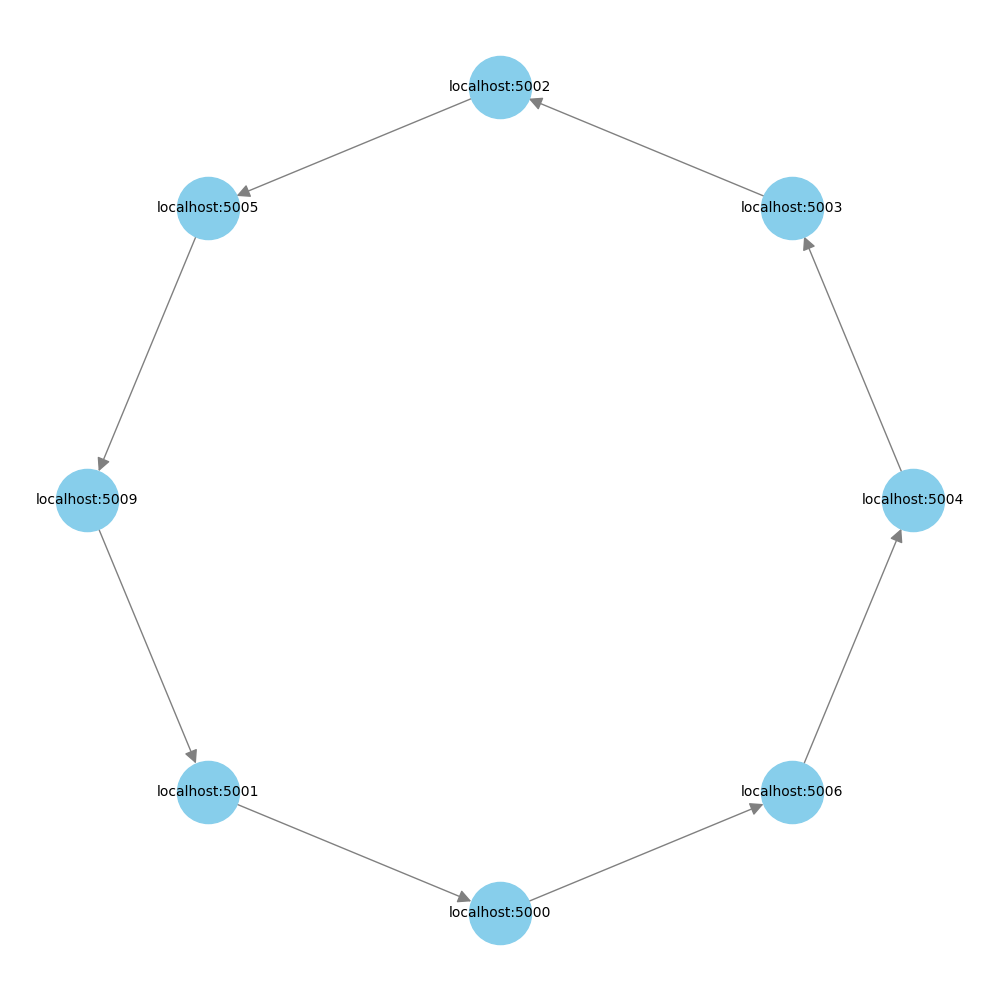
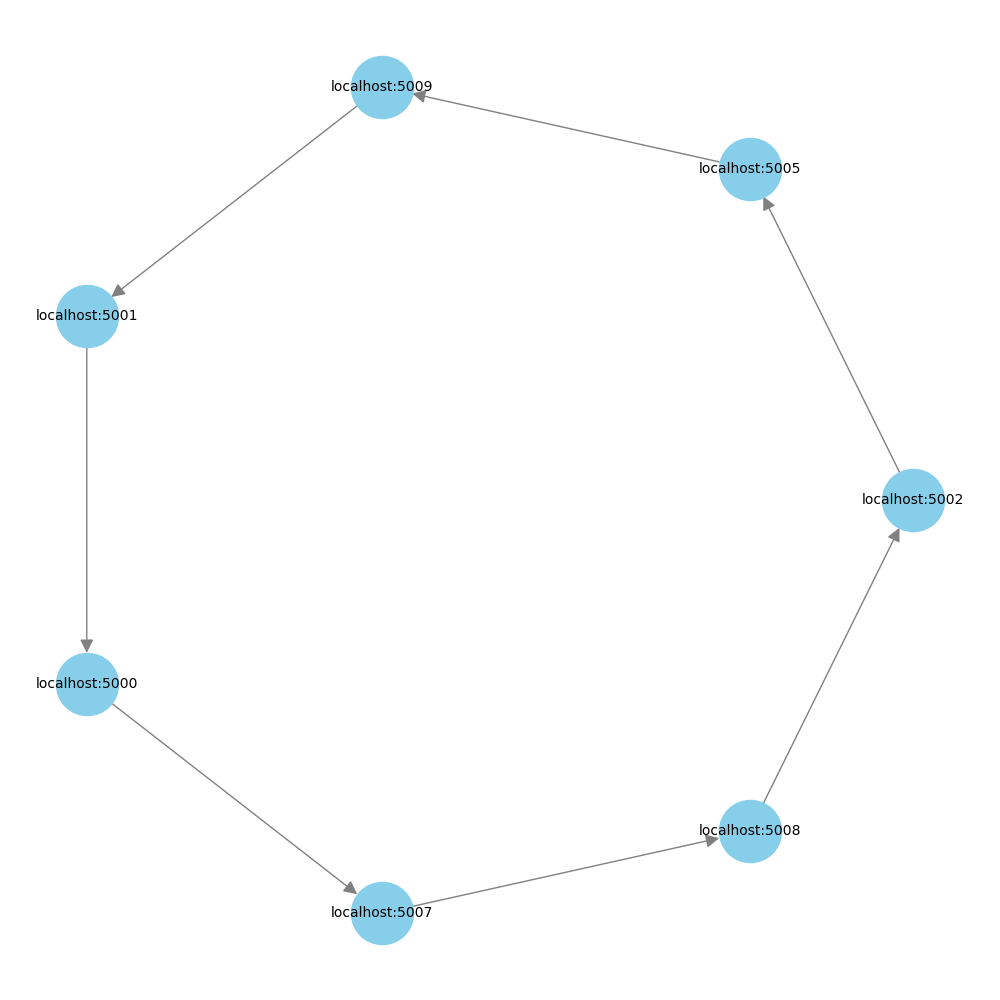
finishing the plot for the moment

diff --git a/playground/chord_join-leave/visual/templates/index.html b/playground/chord_join-leave/visual/templates/index.html
@@ -17,8 +17,6 @@
     </script>
 </head>
 <body>
-    <h1>Chord Ring Visualization</h1>
-    <p>The visualization will update every second to reflect the current state of the Chord ring.</p>
     <img id="chord-graph" src="/static/graph.png" alt="Chord Ring Visualization" style="width: 100%; max-width: 800px; height: auto;">
 </body>
 </html>

diff --git a/playground/chord_join-leave/visual/plot.py b/playground/chord_join-leave/visual/plot.py
@@ -1,6 +1,8 @@
 import matplotlib
 matplotlib.use('Agg')  # Use a non-GUI backend
 
+import threading
+import time
 import os
 import requests
 import json
@@ -19,86 +21,67 @@ def hash_node(node):
 
 def build_chord_graph():
     """
-    Build a graph representation of the Chord ring, ensuring nodes are sorted
-    to avoid crossing connections.
+    Traverse the Chord ring starting from a known node (e.g., localhost:5000),
+    dynamically discover all nodes via successor links, and sort them by hash.
     """
     G = nx.DiGraph()
-    node_data = []
+    visited = set()  # Keep track of visited nodes to avoid infinite loops
+    nodes = []       # Store nodes and their hashes for sorting
+    start_node = "localhost:5000"  # Starting node (node 0)
 
-    # Step 1: Retrieve the list of nodes and their information
-    for port in range(5000, 5010):
-        try:
-            response = requests.get(f"http://localhost:{port}/network")
+    try:
+        # Start traversal from the known node
+        current_node = start_node
+        while current_node not in visited:
+            # Fetch information from the current node
+            response = requests.get(f"http://{current_node}/network")
             data = response.json()
-            current_node = f"localhost:{port}"
+
             successor = data["successor"]
             predecessor = data["predecessor"]
 
-            # Store node info along with its hash
-            node_data.append({
-                "id": current_node,
-                "successor": successor,
-                "predecessor": predecessor,
-                "hash": hash_node(current_node)
-            })
-        except (requests.exceptions.ConnectionError, requests.exceptions.JSONDecodeError) as e:
-            print(f"Error with node on port {port}: {e}")
-            continue
+            # Add the current node and its connections to the graph
+            G.add_node(current_node)
+            G.add_node(successor)
+            G.add_node(predecessor)
 
-    # Step 2: Sort nodes based on their hash values
-    node_data.sort(key=lambda x: x["hash"])
+            G.add_edge(current_node, successor)  # Connect to successor
+            G.add_edge(predecessor, current_node)  # Connect from predecessor
 
-    # Step 3: Add nodes and edges to the graph
-    for node in node_data:
-        current_node = node["id"]
-        successor = node["successor"]
+            # Add the node and its hash to the list for sorting
+            nodes.append({"id": current_node, "hash": hash_node(current_node)})
 
-        # Add nodes to the graph
-        G.add_node(current_node)
-        G.add_node(successor)
+            # Mark the current node as visited and move to the successor
+            visited.add(current_node)
+            current_node = successor
 
-        # Add directed edges for successor connections
-        G.add_edge(current_node, successor)
+        # Sort nodes by their hash values
+        nodes.sort(key=lambda x: x["hash"])
+
+        # Rebuild the graph using the sorted nodes
+        sorted_G = nx.DiGraph()
+        for i in range(len(nodes)):
+            current_node = nodes[i]["id"]
+            next_node = nodes[(i + 1) % len(nodes)]["id"]  # Circular connection
+            sorted_G.add_node(current_node)
+            sorted_G.add_edge(current_node, next_node)
+
+        return sorted_G
+
+    except (requests.exceptions.ConnectionError, requests.exceptions.JSONDecodeError) as e:
+        print(f"Error while traversing the ring: {e}")
 
     return G
 
+def generate_chord_plot(graph, output_path="static/graph.png"):
+    """
+    Generate the Chord ring plot and save it as an image.
+    """
+    pos = nx.circular_layout(graph)
 
-# Function to plot the Chord ring
-def plot_chord_ring(graph, output_path):
-    plt.figure(figsize=(10, 6))
-    pos = nx.circular_layout(graph)  # Circular layout for the ring
-    nx.draw(
-        graph,
-        pos,
-        with_labels=True,
-        node_color="skyblue",
-        edge_color="gray",
-        node_size=2000,
-        font_size=10,
-        font_weight="bold",
-    )
-    nx.draw_networkx_edge_labels(
-        graph,
-        pos,
-        edge_labels={(u, v): v for u, v in graph.edges},
-        font_color="black",
-    )
-    plt.savefig(output_path)
-    plt.close()
-
-# Flask route to serve the graph
-@app.route("/")
-def index():
-    G = build_chord_graph()
-
-    # Apply a circular layout
-    pos = nx.circular_layout(G)
-
-    # Plot the graph and save it as a static file
-    static_path = "static/graph.png"
     plt.figure(figsize=(10, 10))
     nx.draw(
-        G,
+        graph,
         pos,
         with_labels=True,
         node_color="skyblue",
@@ -109,19 +92,19 @@ def index():
         arrowsize=20,
     )
     plt.title("Chord Ring Visualization", fontsize=16)
-    plt.savefig(static_path)  # Save to file instead of displaying a GUI
+    plt.savefig(output_path)  # Save the plot to the specified path
     plt.close()
 
-    # Serve the saved plot in the HTML
-    return render_template("index.html", plot_url=f"/{static_path}")
-
+@app.route("/")
+def index():
+    # Regenerate the plot dynamically each time the page is requested
+    G = build_chord_graph()
+    generate_chord_plot(G)  # Save the updated plot
+    return render_template("index.html")
 
 @app.route("/static/graph.png")
 def serve_graph():
     response = make_response(send_file("static/graph.png"))
-    response.headers["Cache-Control"] = "no-store, no-cache, must-revalidate, max-age=0"
-    response.headers["Pragma"] = "no-cache"
-    response.headers["Expires"] = "0"
     return response
 
 
@@ -130,8 +113,17 @@ def serve_graph():
 def render_index():
     return render_template("index.html")
 
+def cyclebuild_of_the_plot():
+    G = build_chord_graph()
+    generate_chord_plot(G)  # Save the updated plot
+    threading.Timer(1, cyclebuild_of_the_plot).start()
+
 # Run the Flask app
 if __name__ == "__main__":
-    os.makedirs(app.config['STATIC_FOLDER'], exist_ok=True)
-    app.run(debug=True, port=8080)
+    # Generate the initial plot when the app starts
+    print("Generating initial Chord ring plot...")
+    cyclebuild_of_the_plot()
+
+    # Start the Flask app
+    app.run(host="0.0.0.0", port=8080, debug=True)
 
